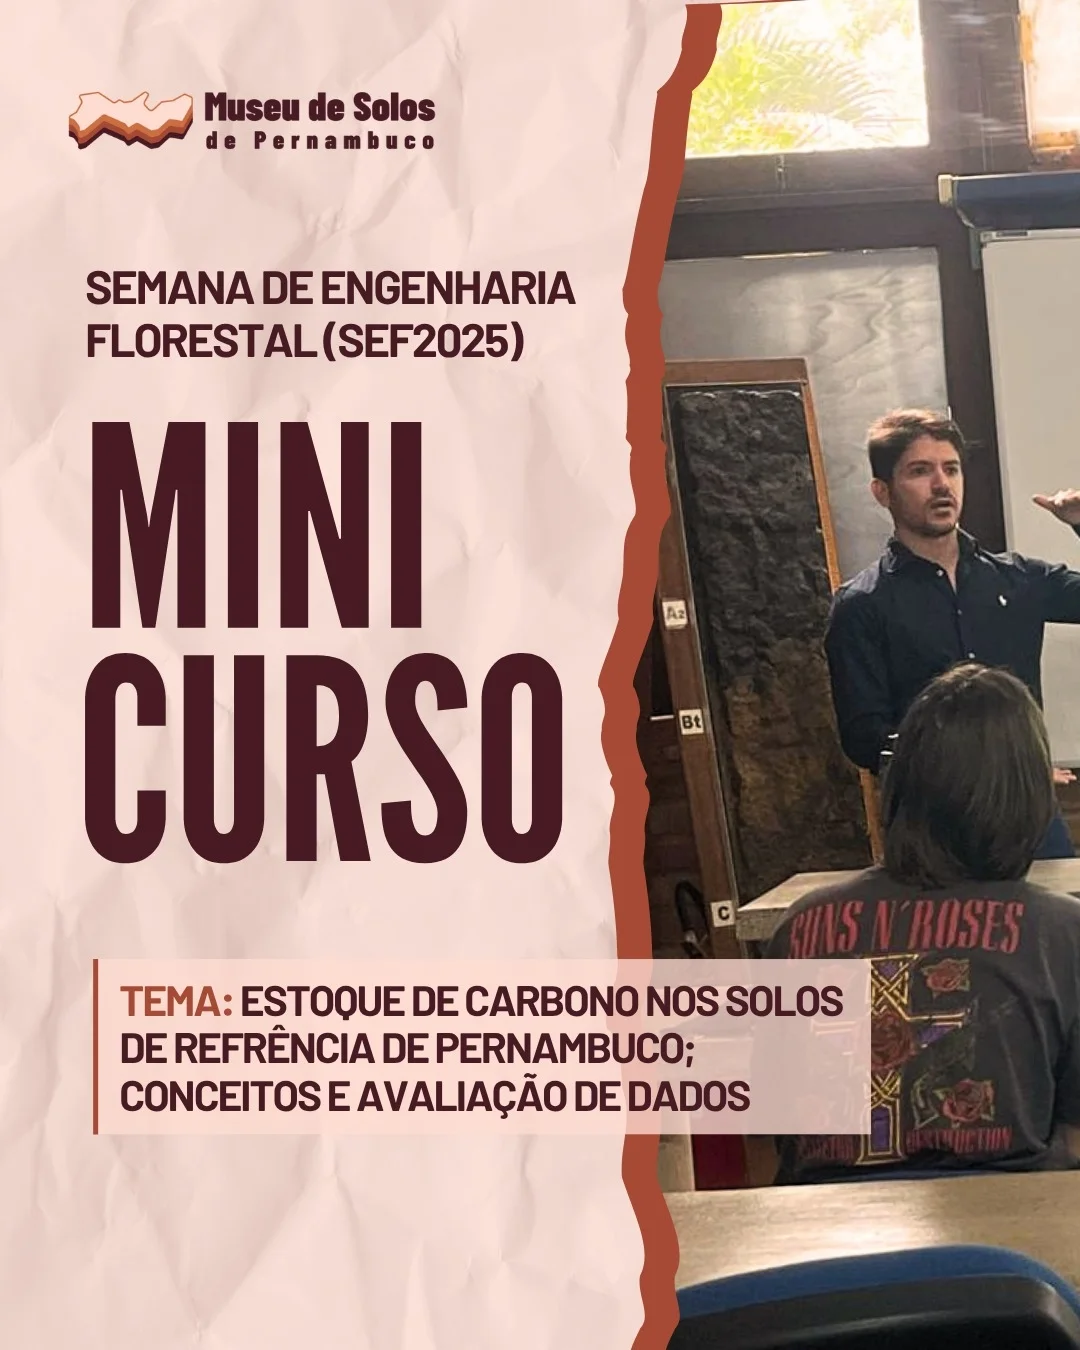
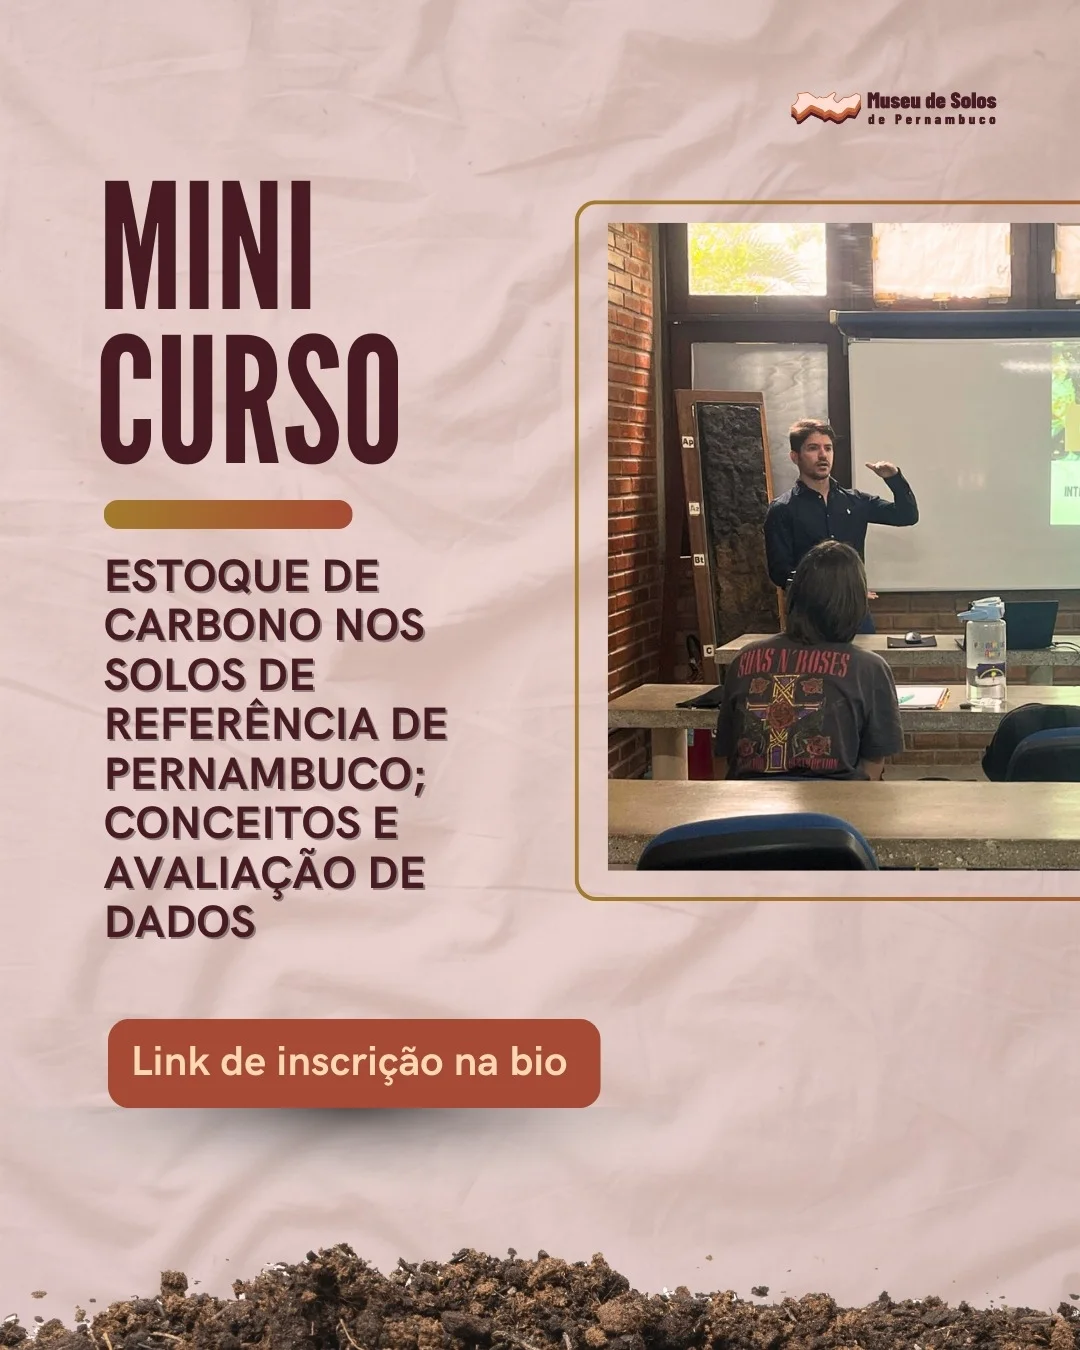
atualização da notícia

diff --git a/src/pages/Noticias/Noticias.jsx b/src/pages/Noticias/Noticias.jsx
@@ -67,16 +67,16 @@ export default function Noticias() {
       >
       <ContainerNoticia
           titulo={
-            "Ciência, aprendizado e solo fértil para o conhecimento!"
+            "Minicurso Especial no Museu de Solos de Pernambuco! São apenas 25 vagas !"
           }
           resumo={
-            "No dia 29 de outubro, o Museu de Solos de Pernambuco recebeu o minicurso ministrado pela Dra. Clarissa Buarque Vieira e pelo Dr. Gabriel Henrique M. C. Silva, com o tema “Estoque de Carbono nos Solos de Referência de Pernambuco: Conceitos e Avaliação de Dados”, realizado durante a Semana de Engenharia Florestal (SEF 2025). Foram 8 horas de imersão científica, reunindo teoria e muita troca de experiências sobre a importância do carbono no solo."
+            "No dia 04 de dezembro, das 8h às 12h, acontecerá no prédio da Pós-Graduação em Ciência do Solo da UFRPE um minicurso voltado para a compreensão dos principais conceitos, fundamentos e métodos de avaliação do estoque de carbono nos solos. Ministrado pela Dra. Clarissa Buarque Vieira e pelo Dr. Gabriel Henrique M. C. Silva, o encontro inclui uma palestra introdutória e uma visita técnica ao Museu de Solos de Pernambuco, permitindo conectar teoria e prática de forma aprofundada."
           }
-          data={"31/10/2025"}
-          botao="Saiba mais"
+          data={"01/12/2025"}
+          botao="Garanta já sua vaga!"
           imagem={miniCurso}
           link={
-            "https://www.instagram.com/p/DQepKCSjZlX/?img_index=1"
+            "https://docs.google.com/forms/d/e/1FAIpQLScaxGO-OcwhYtZB06YWPllf1QyqWe8r0ZLr4exm99w1EUcoQQ/viewform"
           }
           imgWidth="w-[90%] sm:w-[300px]"
           imgHeight="h-[90%] sm:h-[360px]"
